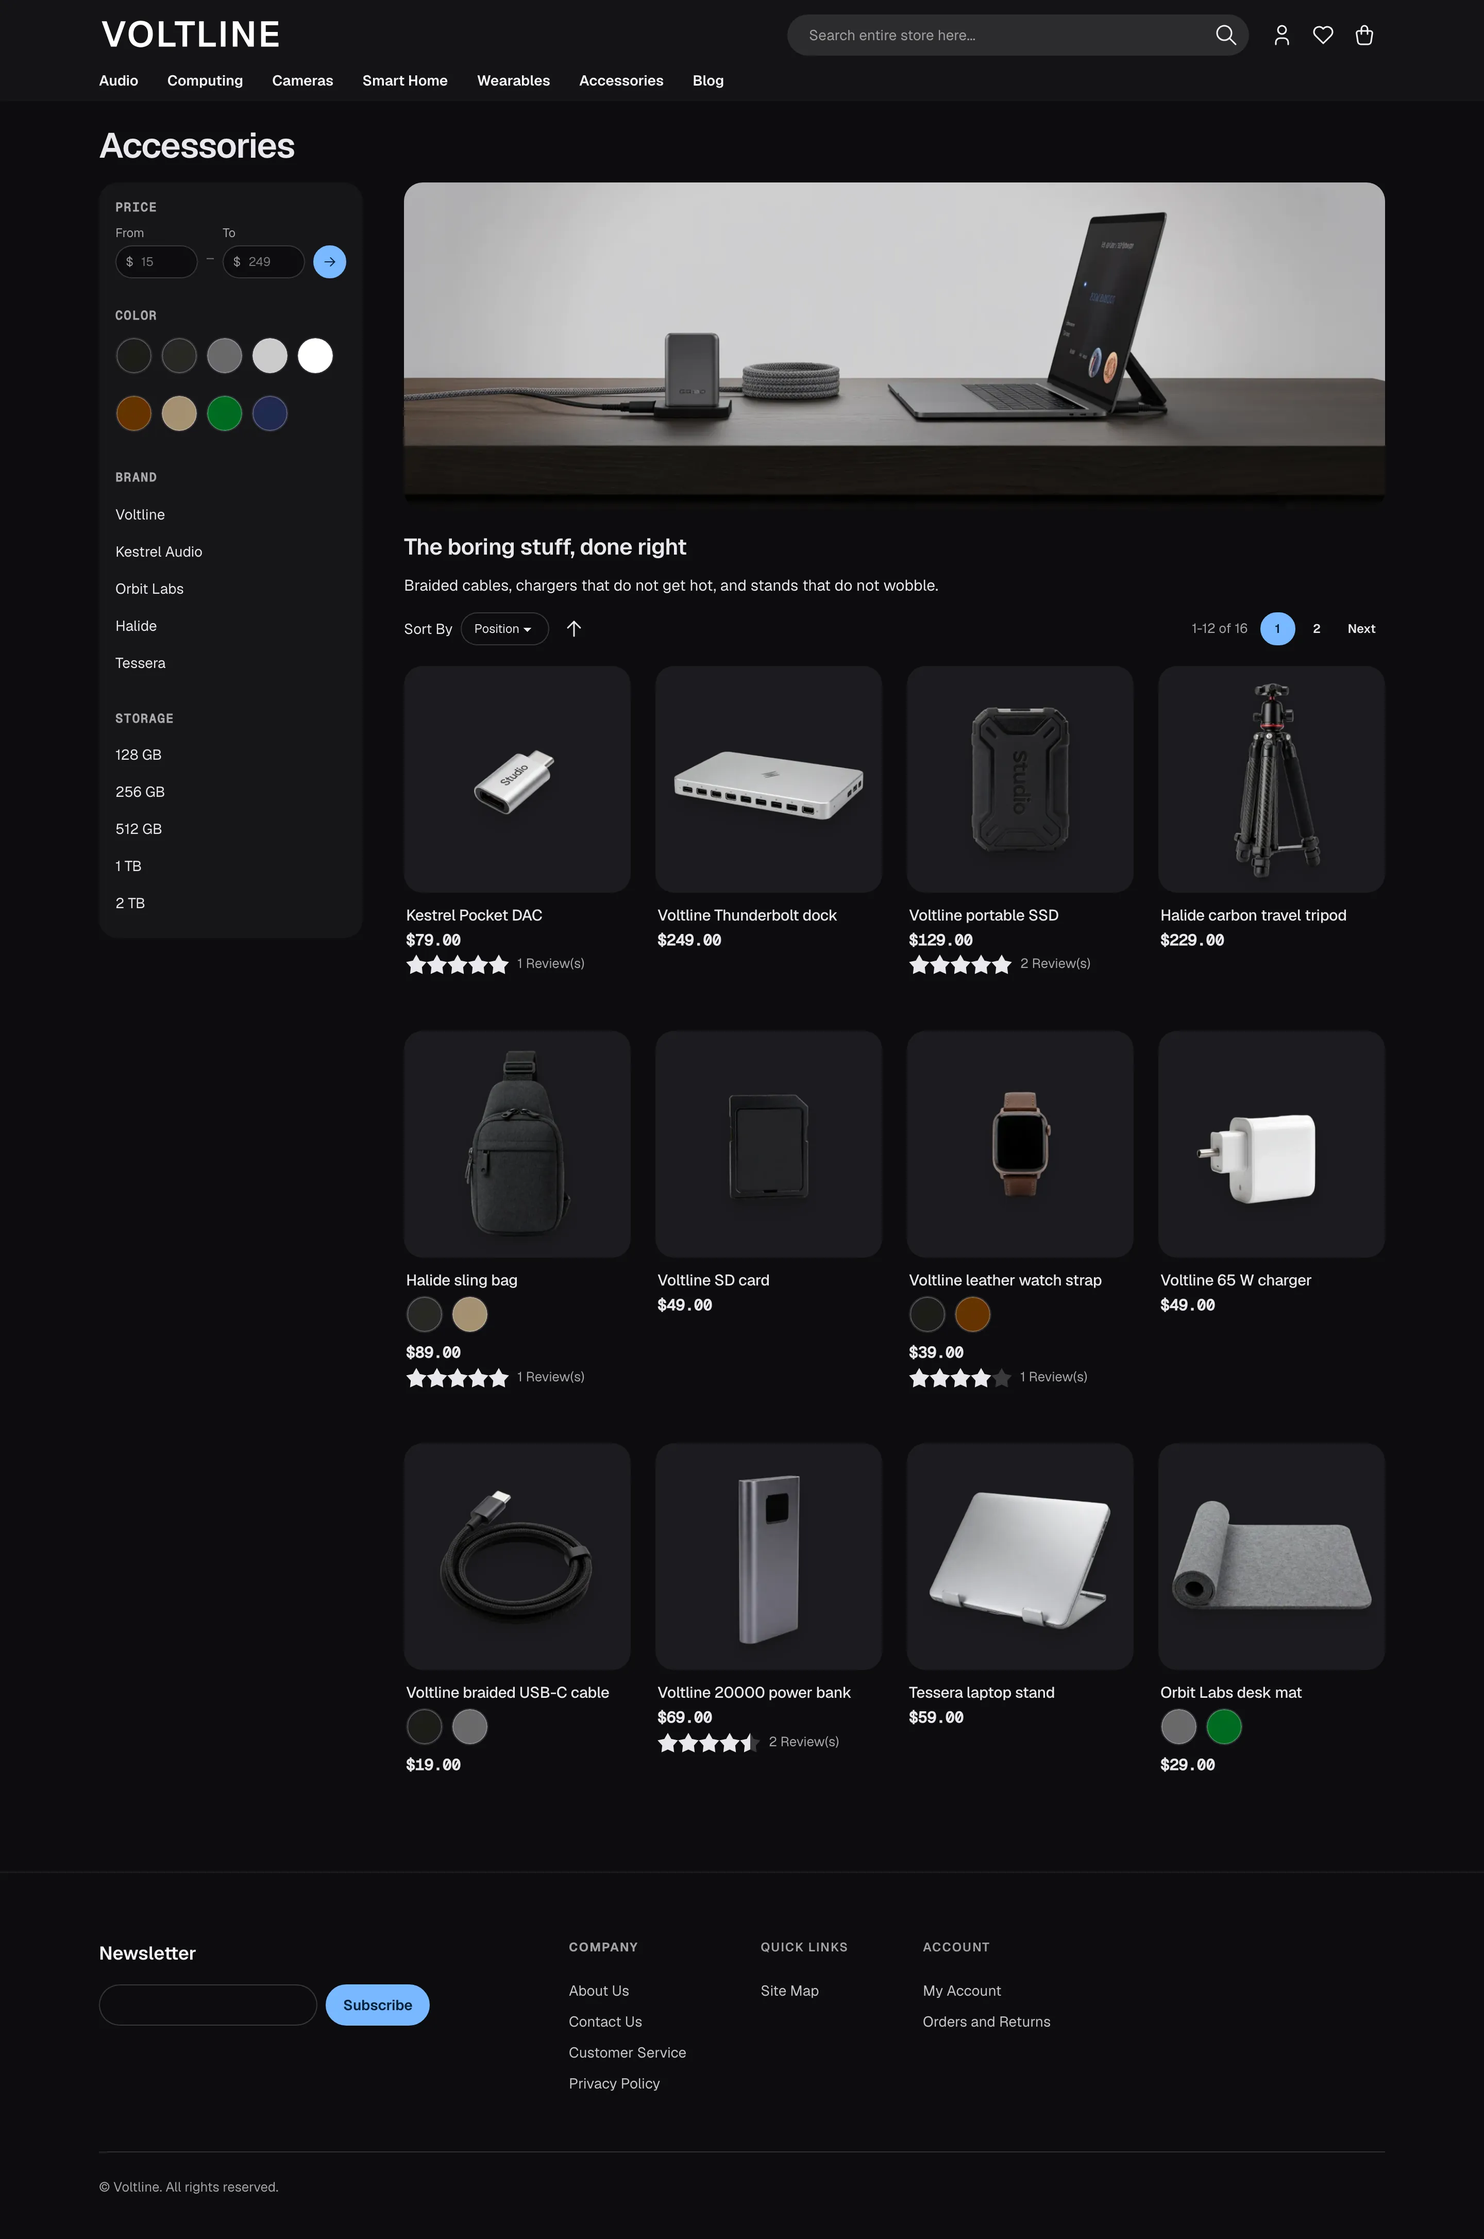
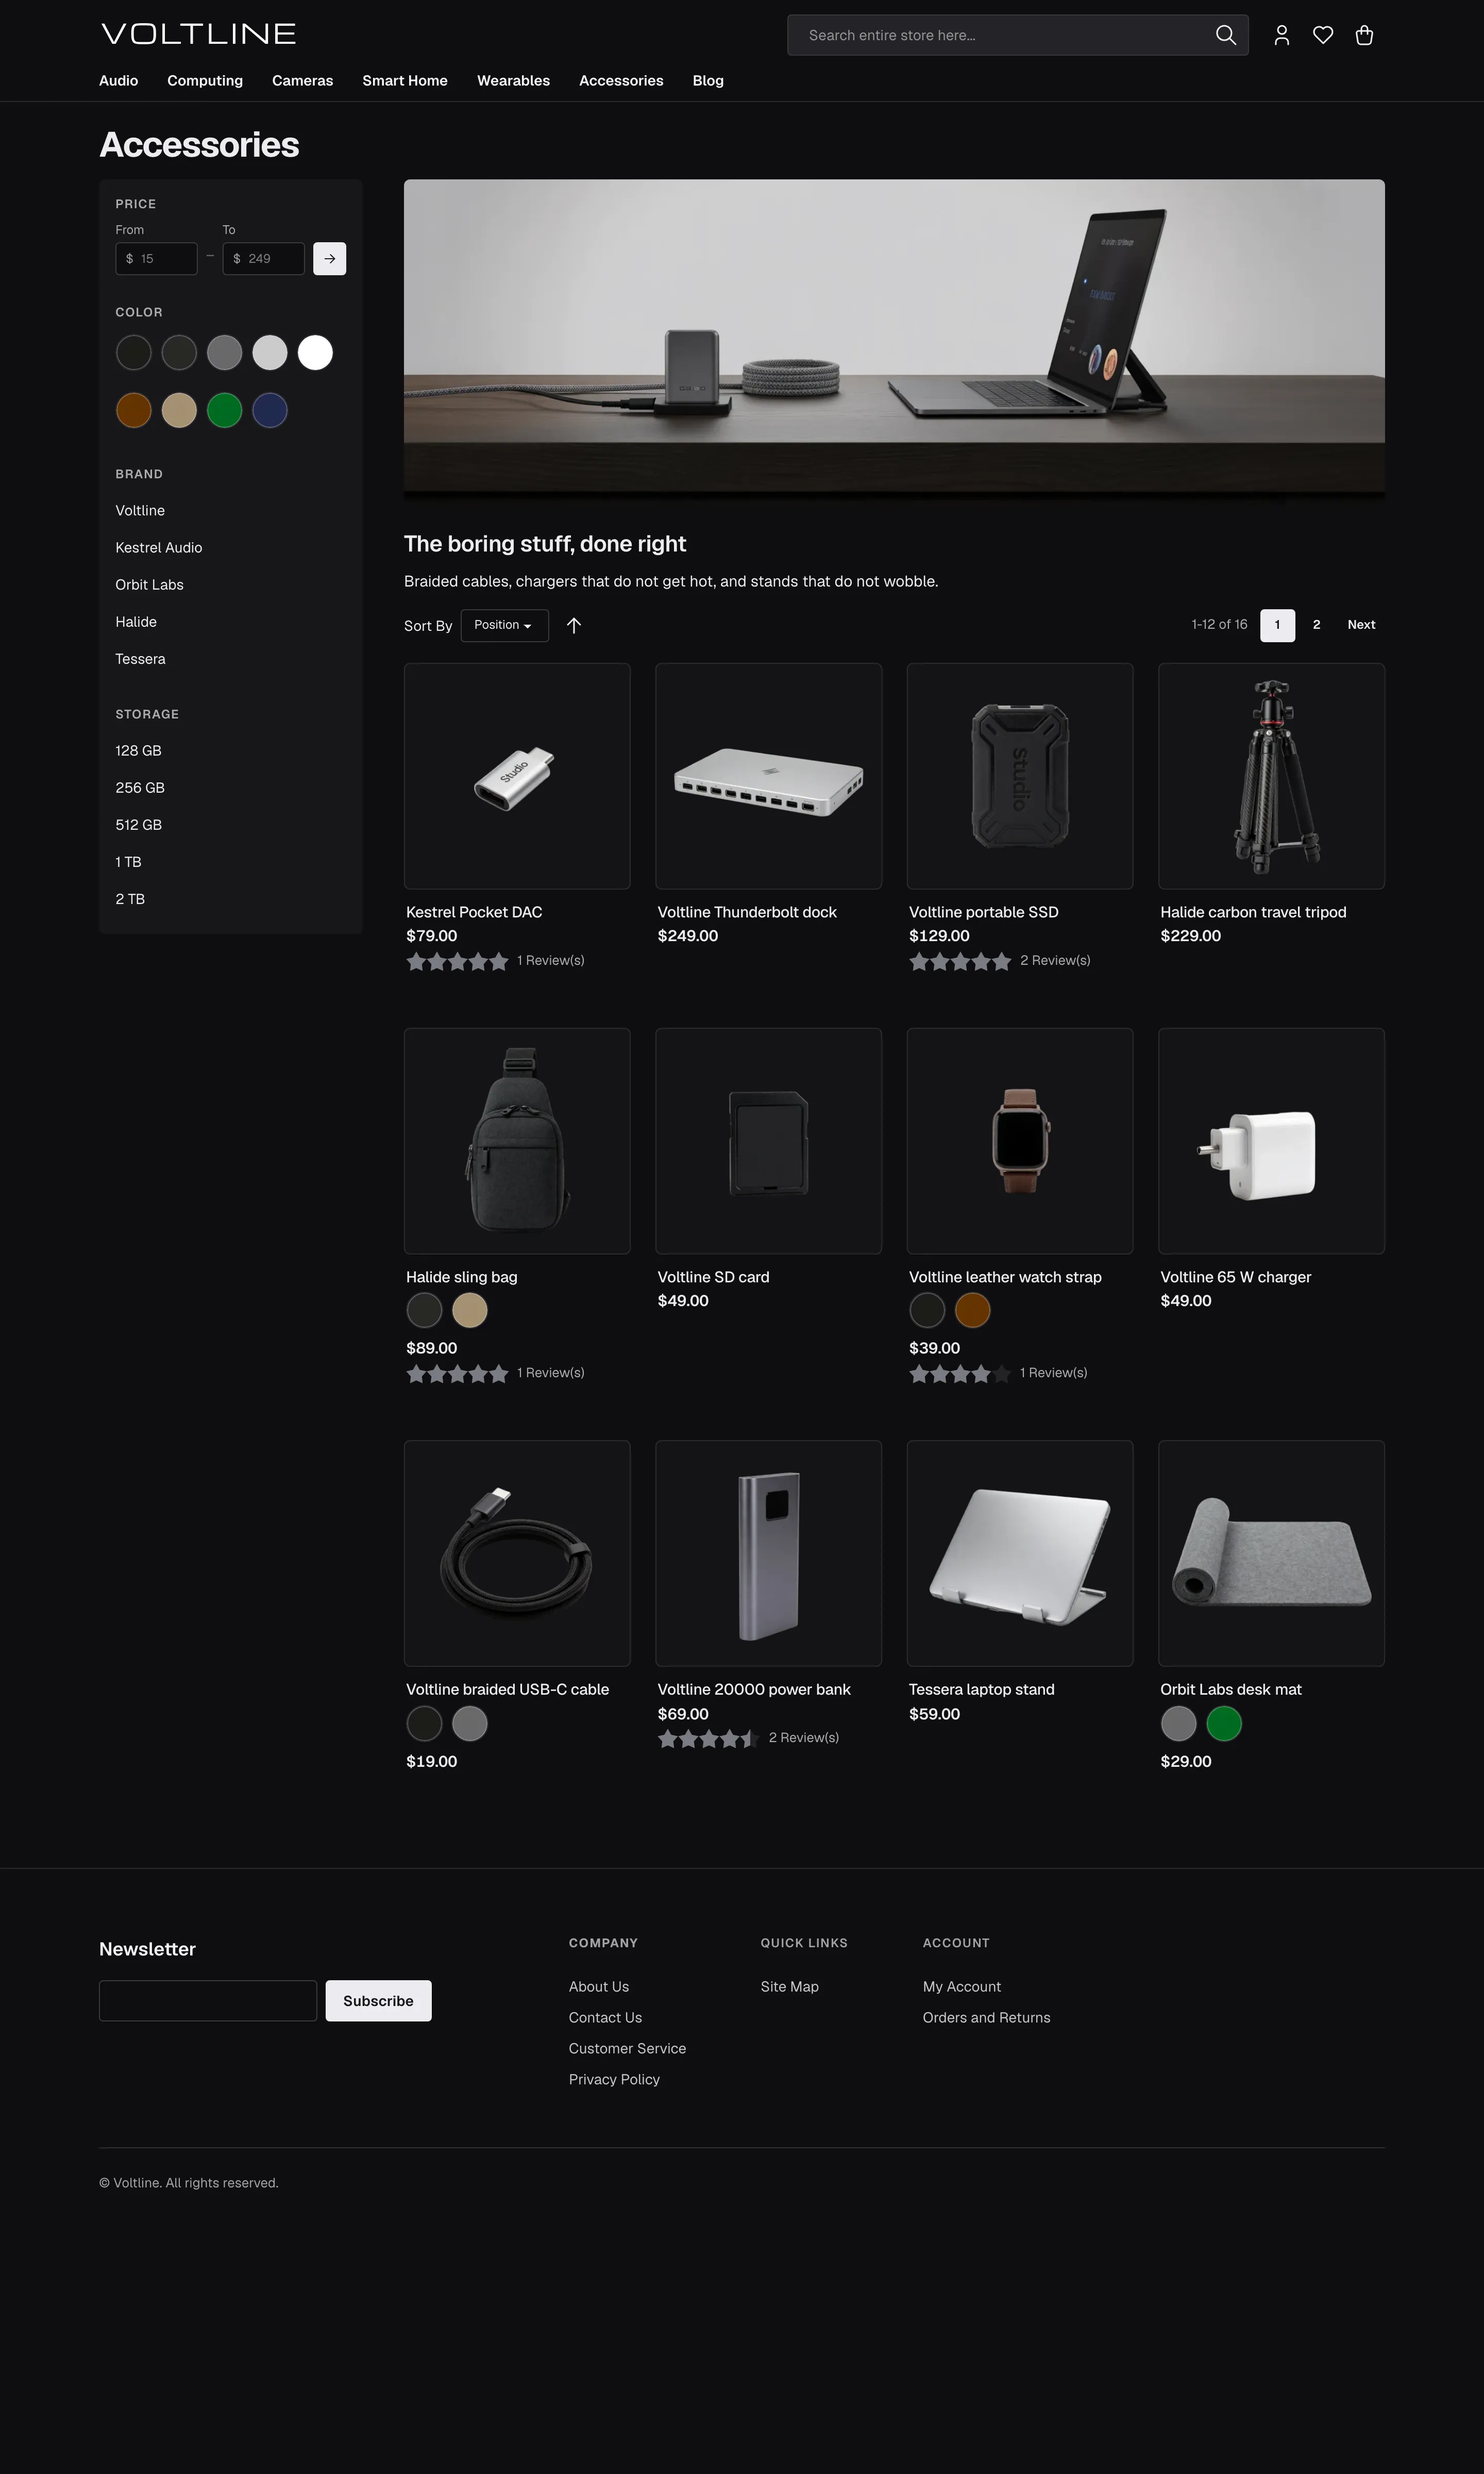
Recaptured the electronics theme screenshots after its redesign, and rewrote its description

diff --git a/docs/about/themes.md b/docs/about/themes.md
@@ -98,7 +98,7 @@ Pick a theme, step through the home, category and product pages with the arrows,
   <a class="mh-theme-shot mh-tstage-open" href="../../assets/themes/electronics-home-light.webp" data-target="mh-themes-compare" data-theme="electronics" data-page="home" aria-label="View the Electronics theme in the comparison window"><img src="../../assets/themes/thumbs/electronics-home-light.webp" alt="Electronics theme, home page, light mode" width="720" height="1200" loading="lazy" decoding="async"></a>
   <div class="mh-theme-body">
     <h3>Electronics <span class="mh-theme-scheme">Light + dark</span></h3>
-    <p>Tech flagship. A white page under a dark translucent app bar, one confident blue, pill buttons, mono numerals on prices.</p>
+    <p>Precision hardware. A white page under a solid black app bar, hard edges, ink actions, and every product framed by a hairline.</p>
     <div class="mh-theme-pages" aria-label="Electronics theme captures"><a class="mh-tstage-open" href="../../assets/themes/electronics-home-light.webp" data-target="mh-themes-compare" data-theme="electronics" data-page="home">Home</a> <a class="mh-tstage-open" href="../../assets/themes/electronics-category-light.webp" data-target="mh-themes-compare" data-theme="electronics" data-page="category">Category</a> <a class="mh-tstage-open" href="../../assets/themes/electronics-product-light.webp" data-target="mh-themes-compare" data-theme="electronics" data-page="product">Product</a></div>
     <div class="mh-theme-actions">
       <a class="mh-btn mh-btn-solid" href="https://demo.mahocommerce.com/electronics/" target="_blank" rel="noopener">Open the demo <svg width="14" height="14" viewBox="0 0 24 24" fill="none" stroke="currentColor" stroke-width="2.5" stroke-linecap="round" stroke-linejoin="round" aria-hidden="true"><path d="M5 12h14M13 6l6 6-6 6"/></svg></a>
